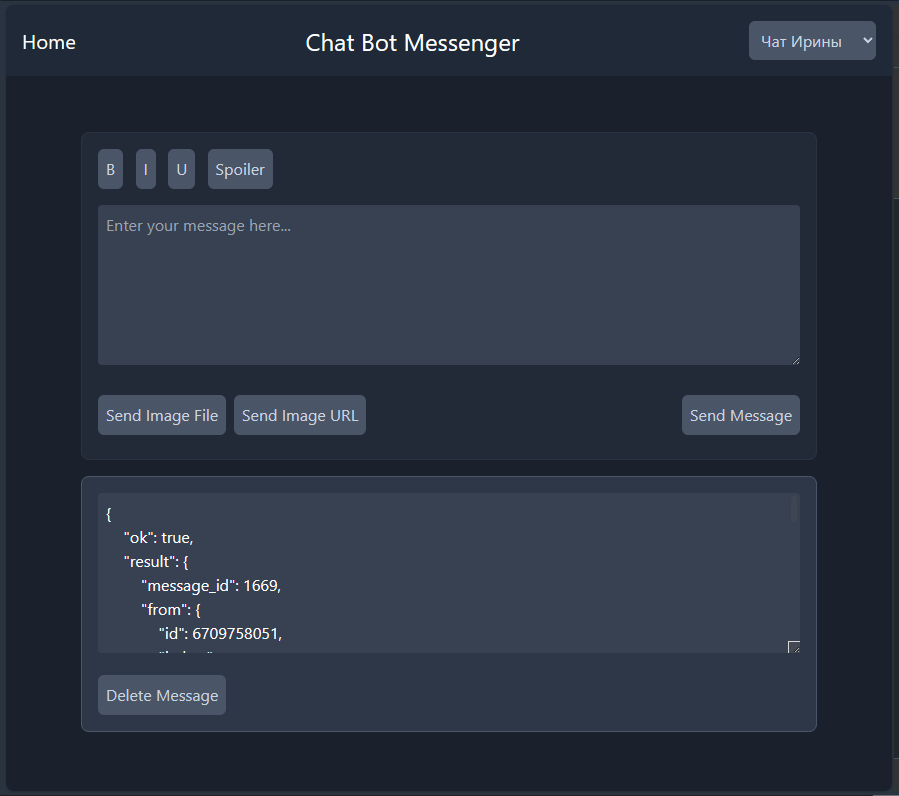
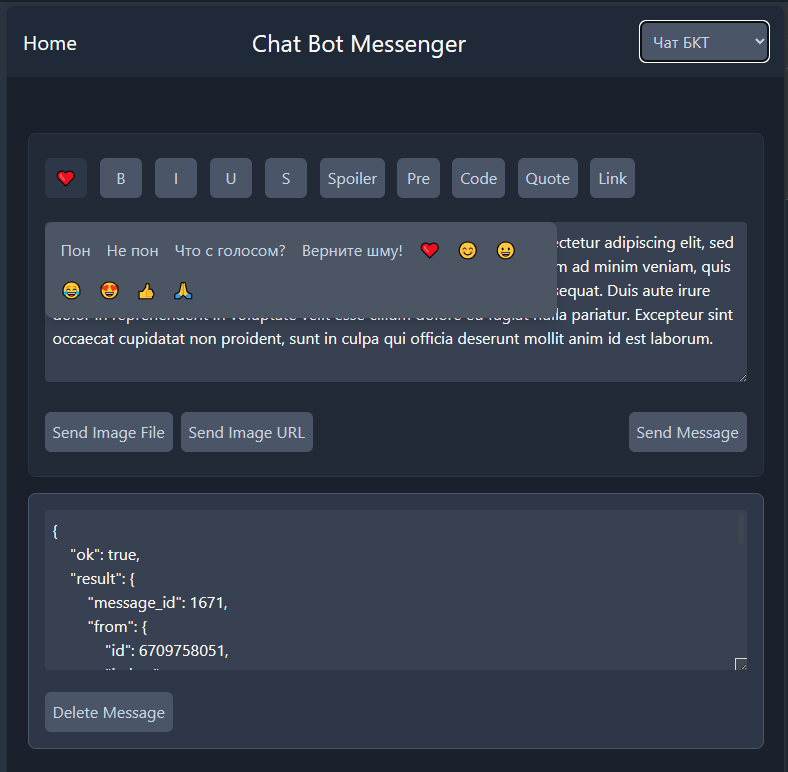
add emojis and more tags

diff --git a/src/messenger/index.html b/src/messenger/index.html
@@ -10,12 +10,16 @@
     <link rel="stylesheet" type="text/css" href="https://dev.fhnb.ru/assets/view/tailwind.css/2.2.19/f/tailwind.min.css">
     <link rel="stylesheet" type="text/css" href="style.css">
 
+    <style type="text/css">
+
+    </style>
+
 </head>
 
 <body>
     <header class="flex justify-between items-center p-4 bg-gray-800">
         <a href="https://dev.fhnb.ru" class="text-white text-xl">Home</a>
-        <h1 class="text-white text-2xl">Chat Bot Messenger</h1>
+        <h1 class="text-white text-2xl text-center">Chat Bot Messenger</h1>
         <select id="botChatsList" class="btn editor__button rounded">
             <!-- Options will be dynamically added by JavaScript -->
         </select>
@@ -27,10 +31,31 @@
         </div>
         <div class="editor-container">
             <div class="mb-4">
-                <button class="btn editor__button mr-2" onclick="insertTag('b')">B</button>
-                <button class="btn editor__button mr-2" onclick="insertTag('i')">I</button>
-                <button class="btn editor__button mr-2" onclick="insertTag('u')">U</button>
-                <button class="btn editor__button mr-2" onclick="insertTag('tg-spoiler')">Spoiler</button>
+                <button class="btn editor__button mr-2 my-2" id="emojiToggleBtn">❤</button>
+                <button class="btn editor__button mr-2 mr-2" onclick="insertTag('b')">B</button>
+                <button class="btn editor__button mr-2 mr-2" onclick="insertTag('i')">I</button>
+                <button class="btn editor__button mr-2 mr-2" onclick="insertTag('u')">U</button>
+                <button class="btn editor__button mr-2 mr-2" onclick="insertTag('s')">S</button>
+                <button class="btn editor__button mr-2 mr-2" onclick="insertTag('span', `class='tg-spoiler'`)">Spoiler</button>
+                <button class="btn editor__button mr-2 mr-2" onclick="insertTag('pre')">Pre</button>
+                <button class="btn editor__button mr-2 mr-2" onclick="insertTag('code')">Code</button>
+                <button class="btn editor__button mr-2 mr-2" onclick="insertTag('blockquote')">Quote</button>
+                <button class="btn editor__button mr-2 mr-2" onclick="insertTag('a', `href=''`)">Link</button>
+            </div>
+            <div id="emojiMenu" class="hidden absolute z-10 bg-gray-600 rounded-lg p-2 shadow-lg">
+                <!-- Список эмодзи -->
+                <span class="emoji">Пон</span>
+                <span class="emoji">Не пон</span>
+                <span class="emoji">Что с голосом?</span>
+                <span class="emoji">Верните шму!</span>
+                <span class="emoji">❤</span>
+                <span class="emoji">😊</span>
+                <span class="emoji">😀</span>
+                <span class="emoji">😂</span>
+                <span class="emoji">😍</span>
+                <span class="emoji">👍</span>
+                <span class="emoji">🙏</span>
+                <!-- Добавьте больше эмодзи по мере необходимости -->
             </div>
             <textarea id="editor" class="w-full h-40 p-2 bg-gray-700 text-white rounded" placeholder="Enter your message here..."></textarea>
             <div class="mt-4 flex justify-between flex-wrap">
@@ -53,6 +78,9 @@
 
     <script type="text/javascript" src="config.js"></script>
     <script type="text/javascript" src="script.js"></script>
+
+    <script type="text/javascript">
+    </script>
 
 </body>
 

diff --git a/src/messenger/script.js b/src/messenger/script.js
@@ -8,7 +8,10 @@ for (var [chatName, chatId] of Object.entries(chatData)) {
 }
 
 // Insert tag at cursor position or wrap selected text
-function insertTag(tag) {
+function insertTag(tag, arg = "") {
+    if (arg != "") {
+        arg = " " + arg;
+    }
     var textarea = document.getElementById('editor');
     var start = textarea.selectionStart;
     var end = textarea.selectionEnd;
@@ -19,13 +22,13 @@ function insertTag(tag) {
     var after = text.substring(end);
 
     if (selected) {
-        textarea.value = before + `<${tag}>` + selected + `</${tag}>` + after;
+        textarea.value = before + `<${tag}${arg}>` + selected + `</${tag}>` + after;
     } else {
-        textarea.value = before + `<${tag}></${tag}>` + after;
+        textarea.value = before + `<${tag}${arg}></${tag}>` + after;
     }
 
     textarea.focus();
-    textarea.setSelectionRange(start + tag.length + 2, end + tag.length + 2);
+    textarea.setSelectionRange(start + tag.length + arg.length + 2, end + tag.length + arg.length + 2);
 }
 
 // Send the message to the Telegram API
@@ -152,4 +155,36 @@ function sendImageURL() {
             })
             .catch(error => console.error('Error sending image:', error));
     }
+}
+
+// Показ/скрытие меню с эмодзи
+const emojiToggleBtn = document.getElementById('emojiToggleBtn');
+const emojiMenu = document.getElementById('emojiMenu');
+const textarea = document.getElementById('editor');
+
+emojiToggleBtn.addEventListener('mouseenter', () => {
+    emojiMenu.classList.remove('hidden');
+});
+
+document.addEventListener('click', (e) => {
+    if (!emojiMenu.contains(e.target) && e.target !== emojiToggleBtn) {
+        emojiMenu.classList.add('hidden');
+    }
+});
+
+emojiMenu.addEventListener('click', (e) => {
+    if (e.target.classList.contains('emoji')) {
+        insertAtCursor(textarea, e.target.textContent);
+        emojiMenu.classList.add('hidden');
+    }
+});
+
+function insertAtCursor(textarea, text) {
+    const start = textarea.selectionStart;
+    const end = textarea.selectionEnd;
+    const before = textarea.value.substring(0, start);
+    const after = textarea.value.substring(end, textarea.value.length);
+    textarea.value = before + text + after;
+    textarea.selectionStart = textarea.selectionEnd = start + text.length;
+    textarea.focus();
 }

diff --git a/src/messenger/style.css b/src/messenger/style.css
@@ -15,6 +15,7 @@ body {
 .btn {
     background-color: #4a5568;
     color: #cbd5e0;
+    min-width: 32pt;
 }
 
 .btn:hover {
@@ -116,4 +117,30 @@ body {
 ::-webkit-scrollbar-track,
  ::-webkit-scrollbar-button {
     display: none;
+}
+
+#emojiMenu.hidden {
+    display: none;
+}
+
+#emojiMenu {
+    max-height: 420px;
+    max-width: 512px;
+    overflow-y: auto;
+    cursor: default;
+    display: flex;
+    flex-wrap: wrap;
+    justify-content: flex-start;
+}
+
+#emojiMenu>span.emoji {
+    cursor: pointer;
+    transition: background-color 0.28s;
+    padding: 4px;
+    margin: 4px;
+    border-radius: 8px;
+}
+
+#emojiMenu>span.emoji:hover {
+    background-color: #00000032;
 }
